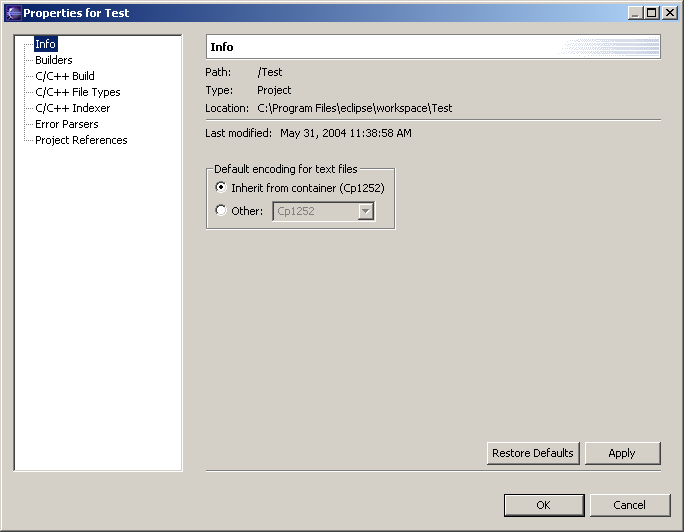
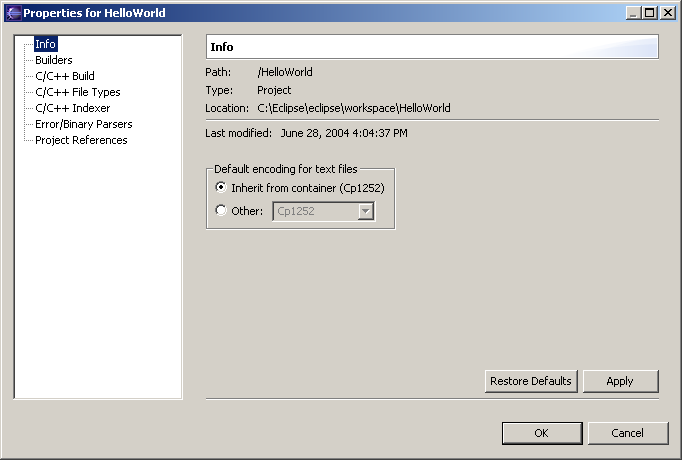
From Dave Williams:  Patch to address https://bugs.eclipse.org/bugs/show_bug.cgi?id=68786

Changed region(s): [[0.0, 0.0, 1.0, 0.8826], [0.3079, 0.7913, 0.9853, 0.8826], [0.739, 0.913, 0.9853, 0.9739]]

diff --git a/all/org.eclipse.cdt.doc.user/reference/cdt_u_mprop_mbinary.htm b/all/org.eclipse.cdt.doc.user/reference/cdt_u_mprop_mbinary.htm
@@ -1,0 +1,69 @@
+<!DOCTYPE HTML PUBLIC "-//W3C//DTD HTML 4.01//EN">
+<html lang="en">
+
+<head>
+	<meta http-equiv="Content-Language" content="en-us">
+	<meta http-equiv="Content-Type" content="text/html; charset=utf-8">
+	<title>C/C++ Project Properties, Managed, Binary Parser</title>
+	<link rel="stylesheet" type="text/css" href="../help.css">
+</head>
+<body>
+
+<h1>C/C++ Project Properties, Managed, Binary Parser</h1>
+<p>You can select the Binary Parsers you require for the project.  </p>
+
+<p>To ensure the accuracy of the C/C++ Projects view and the ability to successfully run and debug your programs. 
+After you select the correct parser for your development environment and build your project, you can view the symbols of the .o file in the C/C++ Projects view.</p>
+
+
+
+<p><img img src="../images/mprop_binaryp.png" alt="C/C++ Project Properties, Managed, Binary Parser"></p>
+
+
+
+<dl>
+  <dt>Binary Parser</dt>
+  <dd>Select a binary parser from the list.</dd>
+  <dt>Binary Parser Options</dt>
+  <dd>If a binary parser has parser options you can define them in this section.</dd>
+  	<dt>Restore Defaults</dt><dd>Returns any changes back to their default setting.</dd>
+	<dt>Apply</dt><dd>Applies any changes.</dd>
+</dl>
+
+<p><img border="0" src="../images/ngconcepts.gif" ALT="Related concepts" width="143" height="21">
+<br>
+<a href="../concepts/cdt_c_build_over.htm">Build overview</a></p>
+<p><img border="0" src="../images/ngtasks.gif" ALT="Related tasks" width="143" height="21">
+<br>
+<a href="../tasks/cdt_t_proj_parser.htm">Selecting a binary parser</a></p>
+<p><img border="0" src="../images/ngref.gif" ALT="Related reference" width="143" height="21"><br>
+<a href="cdt_u_sprop_info.htm">C++ Project Properties, Standard, Info</a><br>
+<a href="cdt_u_sprop_builders.htm">C++ Project Properties, Standard, Builders</a><br>
+<a href="cdt_u_sprop_file_types.htm">C++ Project Properties, Standard, File Types</a><br>
+<a href="cdt_u_sprop_includes.htm">C++ Project Properties, Standard, Include Paths and Symbols</a><br>
+<a href="cdt_u_sprop_indexer.htm">C++ Project Properties, Standard, Indexer</a><br>
+<a href="cdt_u_sprop_mbuild.htm">C++ Project Properties, Standard, Make Builder</a><br>
+<a href="cdt_u_sprop_merror.htm">C++ Project Properties, Standard, Error Parser</a><br>
+<a href="cdt_u_sprop_mdiscovery.htm">C++ Project Properties, Standard, Discovery Options</a><br>
+<a href="cdt_u_sprop_psource.htm">C++ Project Properties, Standard, Source</a><br>
+<a href="cdt_u_sprop_poutput.htm">C++ Project Properties, Standard, Output</a><br>
+<a href="cdt_u_sprop_pproj.htm">C++ Project Properties, Standard, Projects</a><br>
+<a href="cdt_u_sprop_plib.htm">C++ Project Properties, Standard, Libraries</a><br>
+<a href="cdt_u_sprop_pcontainers.htm">C++ Project Properties, Standard, Path Containers</a><br>
+<a href="cdt_u_sprop_ref.htm">C++ Project Properties, Standard, Project References</a><br>
+<a href="cdt_u_mprop_info.htm">C++ Project Properties, Managed, Info</a><br>
+<a href="cdt_u_mprop_builders.htm">C++ Project Properties, Managed, Builders</a><br>
+<a href="cdt_u_mprop_build.htm">C++ Project Properties, Managed, Build</a><br>
+<a href="cdt_u_mprop_file_types.htm">C++ Project Properties, Managed, File Types</a><br>
+<a href="cdt_u_mprop_indexer.htm">C++ Project Properties, Managed, Indexer</a><br>
+<a href="cdt_u_mprop_merror.htm">C++ Project Properties, Managed, Error Parser</a><br>
+<a href="cdt_u_mprop_ref.htm">C++ Project Properties, Managed, Project References</a></p>
+
+
+<p>
+<img src="../images/ng00_04a.gif" ALT="IBM Copyright Statement" > 
+</p>
+
+</body>
+
+</html>

diff --git a/all/org.eclipse.cdt.doc.user/reference/cdt_o_ref.htm b/all/org.eclipse.cdt.doc.user/reference/cdt_o_ref.htm
@@ -72,6 +72,7 @@
 		<img src="../images/trans.gif" border="0" width="150" height="1" alt=""><a style="text-decoration:none" href="cdt_u_mprop_file_types.htm">File Types</a><br>
 		<img src="../images/trans.gif" border="0" width="150" height="1" alt=""><a style="text-decoration:none" href="cdt_u_mprop_indexer.htm">Indexer</a><br>
 		<img src="../images/trans.gif" border="0" width="150" height="1" alt=""><a style="text-decoration:none" href="cdt_u_mprop_merror.htm">Error Parser</a><br>
+		<img src="../images/trans.gif" border="0" width="150" height="1" alt=""><a style="text-decoration:none" href="cdt_u_mprop_mbinary.htm">Binary Parser</a><br>
 		<img src="../images/trans.gif" border="0" width="150" height="1" alt=""><a style="text-decoration:none" href="cdt_u_mprop_ref.htm">Project References</a><br>
 	<img src="../images/trans.gif" border="0" width="100" height="1" alt=""><a style="text-decoration:none" href="cdt_o_smake_proj.htm">Standard Make Projects</a><br>
 		<img src="../images/trans.gif" border="0" width="150" height="1" alt=""><a style="text-decoration:none" href="cdt_u_sprop_info.htm">Info</a><br>
